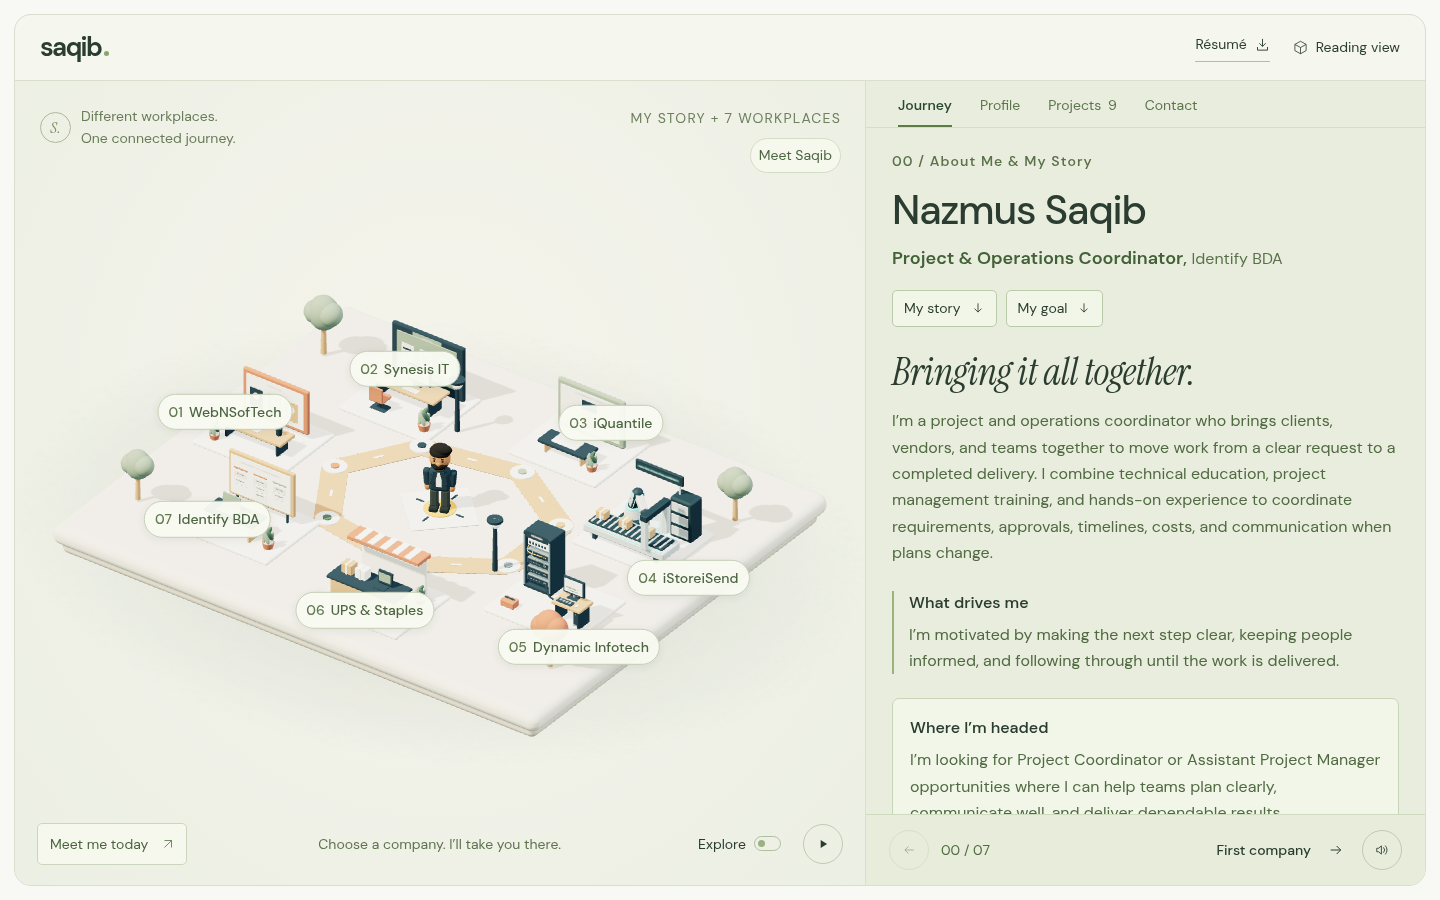
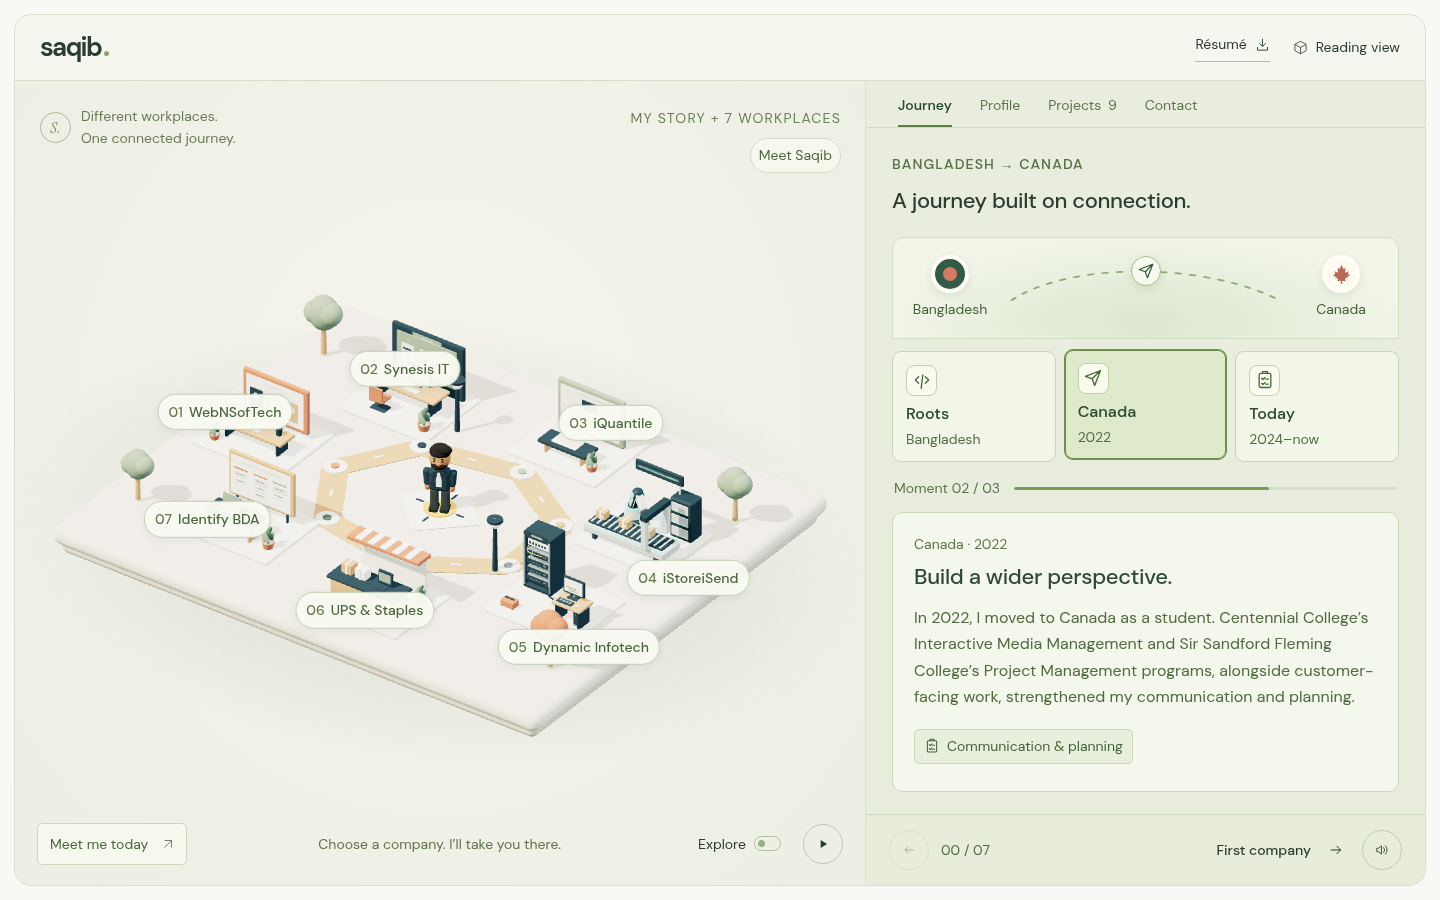
Shorten the personal story and add interactive journey milestones

diff --git a/src/story-view.js b/src/story-view.js
@@ -1,0 +1,48 @@
+const escapeHtml = value => String(value ?? '').replace(/[&<>"']/g, character => ({ '&': '&amp;', '<': '&lt;', '>': '&gt;', '"': '&quot;', "'": '&#39;' }[character]));
+
+const icons = {
+  code: '<path d="m8 8-4 4 4 4m8-8 4 4-4 4m-3-10-2 16"/>',
+  plane: '<path d="m21 3-7 18-3-8-8-3L21 3Zm-10 10L21 3"/>',
+  checklist: '<rect x="5" y="4" width="14" height="17" rx="2"/><path d="M9 4V2h6v2M8 10l1.5 1.5L12 9m1 2h3m-8 5 1.5 1.5L12 15m1 2h3"/>',
+};
+const icon = name => `<svg viewBox="0 0 24 24" fill="none" stroke="currentColor" stroke-width="1.6" stroke-linecap="round" stroke-linejoin="round" aria-hidden="true">${icons[name] || icons.checklist}</svg>`;
+const tabLabels = ['Roots', 'Canada', 'Today'];
+const tabPeriods = ['Bangladesh', '2022', '2024–now'];
+
+export function renderStoryJourney(aboutMe, { selectedIndex = 0 } = {}) {
+  const milestones = aboutMe.storyMilestones || [];
+  const selected = Math.max(0, Math.min(milestones.length - 1, Number(selectedIndex) || 0));
+  return `<section class="about-narrative" aria-labelledby="about-story-title">
+    <p class="eyebrow">BANGLADESH → CANADA</p>
+    <h3 id="about-story-title" tabindex="-1">${escapeHtml(aboutMe.storyTitle)}</h3>
+    <div class="story-journey" id="story-journey" data-story-step="${selected}">
+      <div class="story-route" aria-hidden="true">
+        <span class="story-country"><span class="story-flag story-flag-bd"><i></i></span><span>Bangladesh</span></span>
+        <div class="story-flight"><svg class="story-flight-path" viewBox="0 0 180 54" preserveAspectRatio="none" fill="none"><path d="M8 42C43 4 126 4 172 42" stroke="currentColor" stroke-width="1.7" stroke-dasharray="3 6" stroke-linecap="round"/></svg><span class="story-flight-marker">${icon('plane')}</span></div>
+        <span class="story-country"><span class="story-flag story-flag-ca"><svg viewBox="0 0 24 24" fill="currentColor" aria-hidden="true"><path d="m12 2 2.1 4.2 2.1-1.1-.5 5.2 3.7-1.7-.8 3 2.4 1-5.4 4.2.7 2.2-3.6-.5V22h-1.4v-3.5l-3.6.5.7-2.2L3.1 12.6l2.4-1-.8-3 3.7 1.7-.5-5.2 2.1 1.1L12 2Z"/></svg></span><span>Canada</span></span>
+      </div>
+      <div class="story-tabs" role="tablist" aria-label="My story milestones">${milestones.map((milestone, index) => `<button type="button" class="story-tab" id="story-tab-${index}" role="tab" aria-controls="story-panel-${index}" aria-selected="${index === selected}" tabindex="${index === selected ? 0 : -1}" data-story-milestone="${index}" aria-label="${escapeHtml(tabLabels[index] || milestone.label)}: ${escapeHtml(milestone.period)}"><span class="story-tab-icon">${icon(milestone.icon)}</span><strong>${escapeHtml(tabLabels[index] || milestone.label)}</strong><small>${escapeHtml(tabPeriods[index] || milestone.period)}</small></button>`).join('')}</div>
+      <div class="story-moment-progress"><span class="story-moment-number" aria-live="polite">Moment ${String(selected + 1).padStart(2, '0')} / ${String(milestones.length).padStart(2, '0')}</span><span class="story-progress-track" aria-hidden="true"><i style="width:${((selected + 1) / milestones.length) * 100}%"></i></span></div>
+      ${milestones.map((milestone, index) => `<section class="story-panel" id="story-panel-${index}" role="tabpanel" aria-labelledby="story-tab-${index}" tabindex="0" ${index === selected ? '' : 'hidden'}><p class="story-period">${escapeHtml(milestone.period)}</p><h4>${escapeHtml(milestone.title)}</h4><p class="about-story-paragraph">${escapeHtml(milestone.body)}</p><span class="story-skill">${icon('checklist')}${escapeHtml(milestone.skill)}</span></section>`).join('')}
+    </div>
+  </section>`;
+}
+
+export function activateStoryMilestone(container, index, { focus = false } = {}) {
+  if (!container) return false;
+  const tabs = [...container.querySelectorAll('[data-story-milestone]')];
+  if (!Number.isInteger(index) || index < 0 || index >= tabs.length) return false;
+  container.dataset.storyStep = String(index);
+  tabs.forEach((tab, tabIndex) => {
+    const selected = tabIndex === index;
+    tab.setAttribute('aria-selected', String(selected));
+    tab.tabIndex = selected ? 0 : -1;
+  });
+  container.querySelectorAll('.story-panel').forEach((panel, panelIndex) => { panel.hidden = panelIndex !== index; });
+  const progress = container.querySelector('.story-progress-track > i');
+  if (progress) progress.style.width = `${((index + 1) / tabs.length) * 100}%`;
+  const counter = container.querySelector('.story-moment-number');
+  if (counter) counter.textContent = `Moment ${String(index + 1).padStart(2, '0')} / ${String(tabs.length).padStart(2, '0')}`;
+  if (focus) tabs[index].focus({ preventScroll: true });
+  return true;
+}

diff --git a/src/main.js b/src/main.js
@@ -2,7 +2,9 @@ import '@fontsource-variable/dm-sans';
 import '@fontsource/instrument-serif/latin-400-italic.css';
 import { aboutMe, careerStops, professionalSummary, formatTenure, projects, skills, education, certificates, teaching } from './content.js';
 import { renderProjectCard, renderProjectDetail } from './project-view.js';
+import { renderStoryJourney, activateStoryMilestone } from './story-view.js';
 import './project-view.css';
+import './story-view.css';
 
 const icons = {
   arrow: '<svg viewBox="0 0 24 24" fill="none" aria-hidden="true"><path d="M5 19 19 5M5 5h14v14" stroke="currentColor" stroke-width="1.5"/></svg>',
@@ -23,6 +25,7 @@ const motionPreference = window.matchMedia('(prefers-reduced-motion: reduce)');
 const latest = careerStops.length - 1;
 let world, active = -1, panel = 'journey', reading = false, exploring = false, paused = motionPreference.matches;
 let toastTimer, speaking = false, dialogTrigger, disposed = false;
+let selectedStoryMilestone = 0;
 
 document.querySelector('#app').innerHTML = `
   <a class="skip-link" href="#sidebar-body">Skip to career details</a>
@@ -64,7 +67,7 @@ function aboutMarkup(compact = false) {
     <h3 class="about-tagline">${esc(aboutMe.tagline)}</h3><p class="about-statement">${esc(aboutMe.professionalStatement)}</p>
     <section class="about-motivation"><h3>What drives me</h3><p>${esc(aboutMe.motivation)}</p></section>
     <section class="about-goal"><h3 id="about-goal-title" tabindex="-1">Where I’m headed</h3><p>${esc(aboutMe.goal)}</p></section><footer class="about-signature"><span>THE WORLD OF MY WORK</span><span aria-hidden="true">/</span><strong>PEOPLE. PLANS. FOLLOW-THROUGH.</strong></footer></div>
-    <section class="about-narrative" aria-labelledby="about-story-title"><p class="eyebrow">BANGLADESH → CANADA</p><h3 id="about-story-title" tabindex="-1">${esc(aboutMe.storyTitle)}</h3>${aboutMe.story.map(paragraph=>`<p class="about-story-paragraph">${esc(paragraph)}</p>`).join('')}</section>
+    ${renderStoryJourney(aboutMe,{selectedIndex:selectedStoryMilestone})}
   </article>`;
 }
 
@@ -129,13 +132,32 @@ function selectStop(index) {
 
 function scrollCurrentReading() {if(!reading||panel!=='journey')return;const body=document.querySelector('#sidebar-body');const card=body.querySelector('#reading-view > .is-current');if(card)body.scrollTop+=card.getBoundingClientRect().top-body.getBoundingClientRect().top-8;}
 
+function showStoryMilestone(index, focus = false) {
+  if(!Number.isInteger(index)||index<0||index>=aboutMe.storyMilestones.length)return;
+  selectedStoryMilestone=index;
+  stopSpeech();
+  activateStoryMilestone(document.querySelector('#story-journey'),index,{focus});
+}
+
 document.querySelector('#app').addEventListener('click',event=>{
+  const milestone=event.target.closest('[data-story-milestone]');if(milestone){showStoryMilestone(Number(milestone.dataset.storyMilestone));return;}
   const aboutJump=event.target.closest('[data-about-jump]');if(aboutJump){stopSpeech();const body=document.querySelector('#sidebar-body');const target=body.querySelector(aboutJump.dataset.aboutJump==='story'?'#about-story-title':'#about-goal-title');if(target){target.focus({preventScroll:true});body.scrollTo({top:body.scrollTop+target.getBoundingClientRect().top-body.getBoundingClientRect().top-12,behavior:motionPreference.matches?'instant':'smooth'});}return;}
   const project=event.target.closest('[data-project]');if(project){openProject(project.dataset.project,project);return;}
   const section=event.target.closest('button[data-panel]');if(section){stopSpeech();panel=section.dataset.panel;renderPanel();return;}
   const category=event.target.closest('[data-filter]');if(category){projectFilter=category.dataset.filter;renderPanel(false);return;}
   if(event.target.closest('[data-home]')){selectStop(-1);return;}
   if(event.target.closest('[data-copy-email]')) copyEmail();
+});
+document.querySelector('#app').addEventListener('keydown',event=>{
+  const tab=event.target.closest('[role="tab"][data-story-milestone]');if(!tab)return;
+  const index=Number(tab.dataset.storyMilestone),count=aboutMe.storyMilestones.length;
+  let next;
+  if(event.key==='ArrowRight')next=(index+1)%count;
+  if(event.key==='ArrowLeft')next=(index-1+count)%count;
+  if(event.key==='Home')next=0;
+  if(event.key==='End')next=count-1;
+  if(next===undefined)return;
+  event.preventDefault();showStoryMilestone(next,true);
 });
 document.querySelector('#previous-stop').addEventListener('click',()=>selectStop(active-1));
 document.querySelector('#next-stop').addEventListener('click',()=>selectStop(active===latest?-1:active+1));

diff --git a/src/story-view.css b/src/story-view.css
@@ -1,0 +1,46 @@
+.story-journey { min-width: 0; margin-top: 22px; }
+.story-route { display: grid; grid-template-columns: 88px minmax(0, 1fr) 88px; align-items: center; gap: 5px; padding: 17px 13px 18px; background: radial-gradient(ellipse at 50% 85%, #dce7cf, #f1f5e8 72%); border: 1px solid #d2dec4; border-radius: 12px 12px 0 0; }
+.story-country { display: flex; flex-direction: column; align-items: center; gap: 7px; color: #456039; font-size: .875rem; line-height: 1.4; }
+.story-flag { display: grid; place-items: center; width: 38px; height: 38px; border: 4px solid #fffdf4; border-radius: 50%; box-shadow: 0 3px 9px #2c493219; }
+.story-flag-bd { background: #315b45; }
+.story-flag-bd > i { width: 14px; height: 14px; border-radius: 50%; background: #d47a65; }
+.story-flag-ca { color: #b96a56; background: #fffaf0; }
+.story-flag-ca > svg { width: 23px; height: 23px; }
+.story-flight { position: relative; height: 60px; color: #91aa77; min-width: 0; }
+.story-flight-path { display: block; width: 100%; height: 54px; }
+.story-flight-marker { position: absolute; top: 15px; left: 15px; display: grid; place-items: center; width: 30px; height: 30px; border: 1px solid #a8be8d; border-radius: 50%; color: #36563a; background: #f7faef; box-shadow: 0 4px 10px #3c5c3720; transform: translate(-50%, 0); transition: left .3s ease, top .3s ease; }
+.story-flight-marker > svg { width: 18px; height: 18px; }
+[data-story-step="1"] .story-flight-marker { left: 50%; top: -2px; }
+[data-story-step="2"] .story-flight-marker { left: calc(100% - 15px); top: 15px; }
+.story-tabs { display: grid; grid-template-columns: repeat(3, minmax(0, 1fr)); gap: 8px; padding-top: 12px; }
+.story-tab { position: relative; display: flex; flex-direction: column; align-items: flex-start; gap: 5px; min-width: 0; padding: 13px 13px 12px; border: 1px solid #c7d4b7; border-radius: 9px; background: #f2f6e9; text-align: left; transition: transform .18s ease, background .18s ease, border-color .18s ease; }
+.story-tab:hover { transform: translateY(-2px); border-color: #91ab70; background: #e9f0dd; }
+.story-tab[aria-selected="true"] { border-color: #6e8e50; background: #dfeacb; box-shadow: inset 0 0 0 1px #6e8e50; }
+.story-tab:focus-visible { outline: 2px solid #617f41; outline-offset: 3px; }
+.story-tab-icon { display: grid; place-items: center; width: 31px; height: 31px; margin-bottom: 3px; border: 1px solid #c1d1aa; border-radius: 8px; background: #fafbef; color: #48683a; }
+.story-tab-icon > svg { width: 20px; height: 20px; }
+.story-tab > strong { font-size: 1rem; line-height: 1.3; font-weight: 550; color: #304b32; }
+.story-tab > small { font-size: .875rem; line-height: 1.4; color: #526d42; }
+.story-moment-progress { display: flex; align-items: center; gap: 14px; padding: 16px 2px 13px; }
+.story-moment-number { flex-shrink: 0; font-size: .875rem; line-height: 1.5; color: #5c744e; }
+.story-progress-track { flex: 1; height: 3px; background: #d5dfca; border-radius: 3px; overflow: hidden; }
+.story-progress-track > i { display: block; height: 100%; background: #7c9b5b; border-radius: inherit; transition: width .3s ease; }
+.story-panel { min-height: 17.5rem; padding: 21px; border: 1px solid #cbd9ba; border-radius: 10px; background: #f4f7ec; animation: story-reveal .22s ease; }
+.story-period { font-size: .875rem; line-height: 1.5; color: #5c744a; }
+.story-panel > h4 { margin: 8px 0 13px; font-size: 1.375rem; line-height: 1.3; letter-spacing: -.35px; font-weight: 500; color: #2e4934; }
+.story-panel > .about-story-paragraph { margin: 0; font-size: 1rem; line-height: 1.65; color: #506a41; }
+.story-skill { display: inline-flex; align-items: center; gap: 7px; margin-top: 18px; padding: 6px 9px; border: 1px solid #c9d7b8; border-radius: 5px; background: #e8efdc; font-size: .875rem; line-height: 1.5; color: #456237; }
+.story-skill > svg { width: 16px; height: 16px; flex-shrink: 0; }
+@keyframes story-reveal { from { opacity: 0; transform: translateY(5px); } to { opacity: 1; transform: translateY(0); } }
+@media (max-width: 620px) {
+  .story-route { grid-template-columns: 76px minmax(0, 1fr) 76px; padding-inline: 8px; }
+  .story-tabs { gap: 6px; }
+  .story-tab { padding: 11px 9px; }
+  .story-tab > strong { font-size: .875rem; }
+  .story-panel { min-height: 22.5rem; padding: 17px; }
+  .story-panel > h4 { font-size: 1.25rem; }
+}
+@media (prefers-reduced-motion: reduce) {
+  .story-flight-marker, .story-tab, .story-progress-track > i { transition: none; }
+  .story-panel { animation: none; }
+}

diff --git a/src/content.js b/src/content.js
@@ -1,6 +1,36 @@
 // Public portfolio copy grounded in the owner's career record and uploaded work.
 // Private source material and unresolved source questions stay outside this site.
 
+const storyMilestones = [
+  {
+    id: 'roots',
+    label: 'Foundation',
+    period: 'Bangladesh',
+    title: 'Learn to listen.',
+    body: 'My Computer Science & Engineering degree at North South University in Bangladesh built my technical foundation. UX work taught me to listen, clarify requirements, and connect business needs with teams.',
+    skill: 'Requirements & listening',
+    icon: 'code',
+  },
+  {
+    id: 'canada',
+    label: 'A new start',
+    period: 'Canada · 2022',
+    title: 'Build a wider perspective.',
+    body: 'In 2022, I moved to Canada as a student. Centennial College’s Interactive Media Management and Sir Sandford Fleming College’s Project Management programs, alongside customer-facing work, strengthened my communication and planning.',
+    skill: 'Communication & planning',
+    icon: 'plane',
+  },
+  {
+    id: 'coordination',
+    label: 'Coordination',
+    period: 'October 2024–Today',
+    title: 'Turn plans into progress.',
+    body: 'In October 2024, I joined Identify BDA. As a Project & Operations Coordinator, I now bring clients, vendors, approvals, and timelines together to keep projects moving.',
+    skill: 'Projects & operations',
+    icon: 'checklist',
+  },
+];
+
 export const aboutMe = {
   name: 'Nazmus Saqib',
   position: 'Project & Operations Coordinator',
@@ -9,12 +39,9 @@ export const aboutMe = {
   tagline: 'Bringing it all together.',
   motivation: 'I’m motivated by making the next step clear, keeping people informed, and following through until the work is delivered.',
   goal: 'I’m looking for Project Coordinator or Assistant Project Manager opportunities where I can help teams plan clearly, communicate well, and deliver dependable results.',
-  storyTitle: 'From Bangladesh to Canada. From understanding needs to coordinating Projects.',
-  story: [
-    'I’m originally from Bangladesh, where I earned a degree in Computer Science & Engineering from North South University. I began working in UX in 2020 at Synesis IT, learning to listen carefully and turn needs into clear requirements. Across my work at Synesis IT, iQuantile, and iStoreiSend, I developed a wider view of how business needs, technical teams, and operational workflows connect.',
-    'I came to Canada as a student in 2022 and completed graduate certificates in Interactive Media Management at Centennial College and Project Management at Sir Sandford Fleming College. Alongside my studies and transition into the Canadian workplace, I gained customer-facing experience at UPS and Staples and worked on-call at Dynamic Infotech. Those roles strengthened my communication, practical problem solving, and ability to balance priorities.',
-    'In October 2024, I joined Identify BDA as a Project & Operations Coordinator. Today, I connect client requirements with vendors, approvals, production, delivery, and financial follow-up. Becoming a coordinator brought together the parts of my earlier work I use most: understanding the requirement, communicating across teams, and keeping the next step moving. I’m now building toward Project Coordinator and Assistant Project Manager opportunities.',
-  ],
+  storyTitle: 'A journey built on connection.',
+  storyMilestones,
+  story: storyMilestones.map(milestone => milestone.body),
 };
 
 export const chapters = [

diff --git a/tests/portfolio.spec.js b/tests/portfolio.spec.js
@@ -51,6 +51,26 @@ test('chapter 00 introduces Saqib and his story before the employer journey', as
   await page.getByRole('button', { name: 'Read my story: Bangladesh to Canada', exact: true }).click();
   await expect(page.locator('#about-story-title')).toBeInViewport();
   await expect(page.locator('#about-story-title')).toBeFocused();
+  await expect(page.locator('#story-panel-0')).toBeVisible();
+  await expect(page.locator('#story-panel-0')).toContainText('North South University');
+  await page.locator('[data-story-milestone="1"]').click();
+  await expect(page.locator('#story-panel-1')).toBeVisible();
+  await expect(page.locator('#story-panel-1')).toContainText('2022');
+  await expect(page.locator('#story-panel-1')).toContainText('Centennial College');
+  await expect(page.locator('#story-panel-1')).toContainText('Sir Sandford Fleming College');
+  await page.keyboard.press('ArrowRight');
+  await expect(page.locator('[data-story-milestone="2"]')).toBeFocused();
+  await expect(page.locator('[data-story-milestone="2"]')).toHaveAttribute('aria-selected', 'true');
+  await expect(page.locator('#story-panel-2')).toBeVisible();
+  await expect(page.locator('#story-panel-2')).toContainText('Project & Operations Coordinator');
+  await expect(page.locator('#story-panel-2')).toContainText('Identify BDA');
+  await expect(page.locator('#story-journey [role="tabpanel"]:visible')).toHaveCount(1);
+  await page.keyboard.press('Home');
+  await expect(page.locator('[data-story-milestone="0"]')).toBeFocused();
+  await expect(page.locator('#story-panel-0')).toBeVisible();
+  await page.keyboard.press('End');
+  await expect(page.locator('[data-story-milestone="2"]')).toBeFocused();
+  await expect(page.locator('#story-panel-2')).toBeVisible();
   await assertSingleViewport(page);
   await page.getByRole('button', { name: 'Nazmus Saqib, start of journey', exact: true }).click();
   await page.getByRole('button', { name: 'My career goal', exact: true }).click();
@@ -72,6 +92,7 @@ test('chapter 00 introduces Saqib and his story before the employer journey', as
   await page.locator('#reading-toggle').click();
   await expect(page.locator('#about-card.reading-about')).toBeVisible();
   await expect(page.locator('#reading-view .reading-company')).toHaveCount(7);
+  await page.locator('[data-story-milestone="2"]').click();
   await page.locator('#about-card').getByText('In October 2024,', { exact: false }).scrollIntoViewIfNeeded();
   await assertSingleViewport(page);
 });
@@ -201,6 +222,10 @@ for (const viewport of [{ width: 390, height: 844 }, { width: 360, height: 640 }
     await assertSingleViewport(page);
     await expect(page.locator('#world-pane')).toBeVisible();
     await expect(page.locator('#about-card')).toBeVisible();
+    await page.locator('[data-story-milestone="2"]').click();
+    await expect(page.locator('#story-panel-2')).toBeVisible();
+    await expect(page.locator('#story-journey [role="tabpanel"]:visible')).toHaveCount(1);
+    expect(await page.locator('#story-panel-2 .about-story-paragraph').evaluate(element => getComputedStyle(element).fontSize)).toBe('16px');
     await page.locator('#about-card').getByText('In October 2024,', { exact: false }).scrollIntoViewIfNeeded();
     await assertSingleViewport(page);
     await page.locator('#next-stop').click();

diff --git a/README.md b/README.md
@@ -43,6 +43,7 @@ For a local Pages-path regression check, serve the build with `npm run preview -
 ## Controls and alternatives
 
 - “00 About Me & My Story” introduces Saqib’s name, position, professional statement, tagline, motivation, goal, and journey from Bangladesh to Canada. “THE WORLD OF MY WORK / PEOPLE. PLANS. FOLLOW-THROUGH.” appears below the career goal as a closing statement. Its quick links jump to the story or goal inside the panel. Select the wordmark or central compass to return to the introduction.
+- The Bangladesh–Canada story uses three selectable milestones: Roots, Canada, and Today. Each reveals a short passage and a transferable skill, while the route marker and progress indicator follow the selection. Arrow keys, Home, and End work while a milestone tab is focused; reduced-motion preferences disable transitions.
 - Choose a company in the 3D world or use the Previous/Next chapter controls. Employer chapters remain numbered 01–07, with role, month/year dates, tenure, and clickable project names.
 - “First company” begins the employment journey; “Next company” follows the chronological order. “Meet me today” jumps to Identify BDA. The world and content fill the space below the header.
 - “Explore” enables WASD / arrow-key movement while the canvas has keyboard focus; on-screen controls support touch.
@@ -58,6 +59,7 @@ For a local Pages-path regression check, serve the build with `npm run preview -
 - `src/world.js`: locally generated character and environment; no external model downloads. iStoreiSend is illustrated as an automated fulfillment cell with robotic handling, parcel conveyors, scanning, and automated storage. Machine movement follows the scene’s pause and reduced-motion settings. The Dynamic Infotech workplace contains a desktop computer, cabled server rack, and service kit.
 - `src/styles.css`: responsive interface styling, with 16px body text and labels and controls of at least 14px. Internally scrolling panels preserve readable type inside the viewport.
 - `src/project-view.js` and `src/project-view.css`: reusable project previews and case-study presentation inside the viewport.
+- `src/story-view.js` and `src/story-view.css`: the illustrated story route, accessible milestone tabs, and brief story cards. `aboutMe.storyMilestones` is the single source for the shortened copy and narration.
 - `public/projects/`: optimized previews from supplied project files. Original career records, project source files, and confidential documents are **not** public assets.
 - `public/favicon.svg`: the site icon. The wordmark is styled in CSS, interface icons are inline SVG in `src/main.js`, and illustrative project covers are generated from HTML/CSS. No external icon account or asset download is required.
 - `public/licenses/`: original dependency license notices, also copied into the built website.
